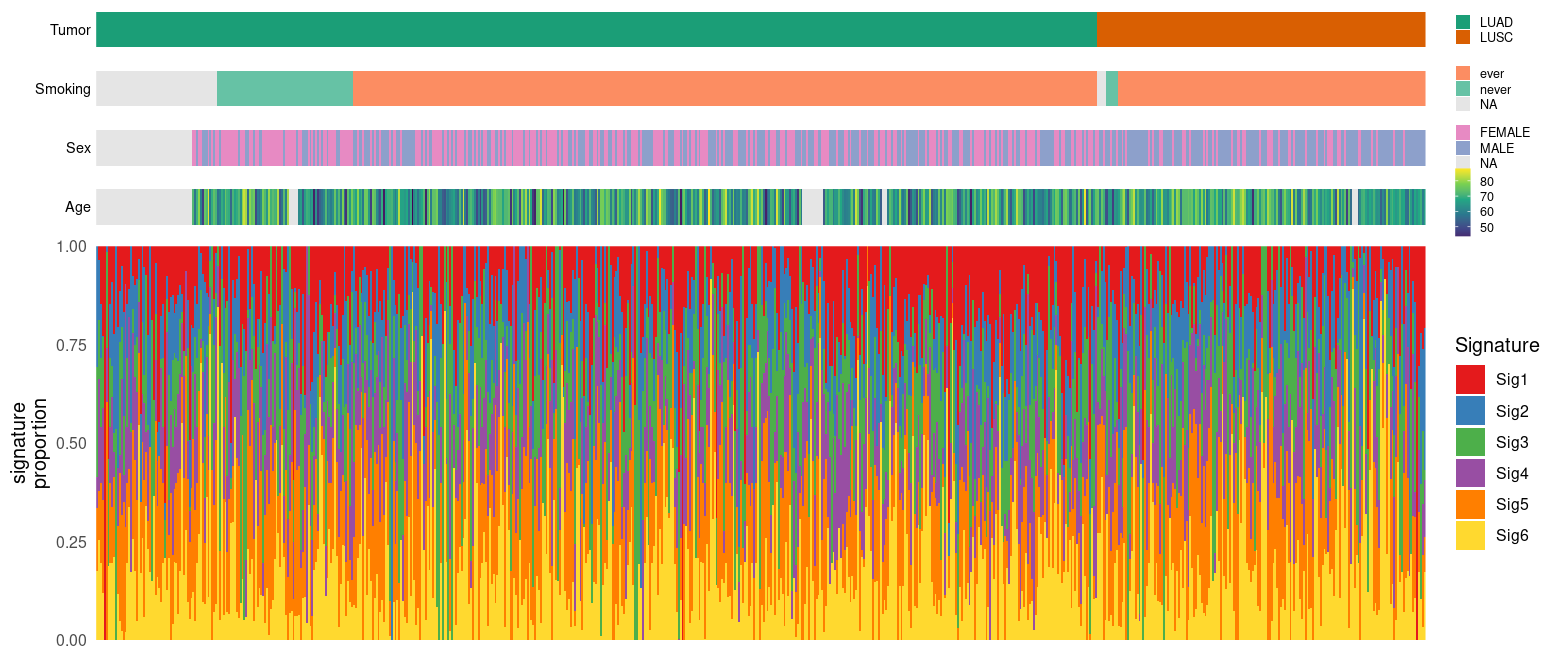
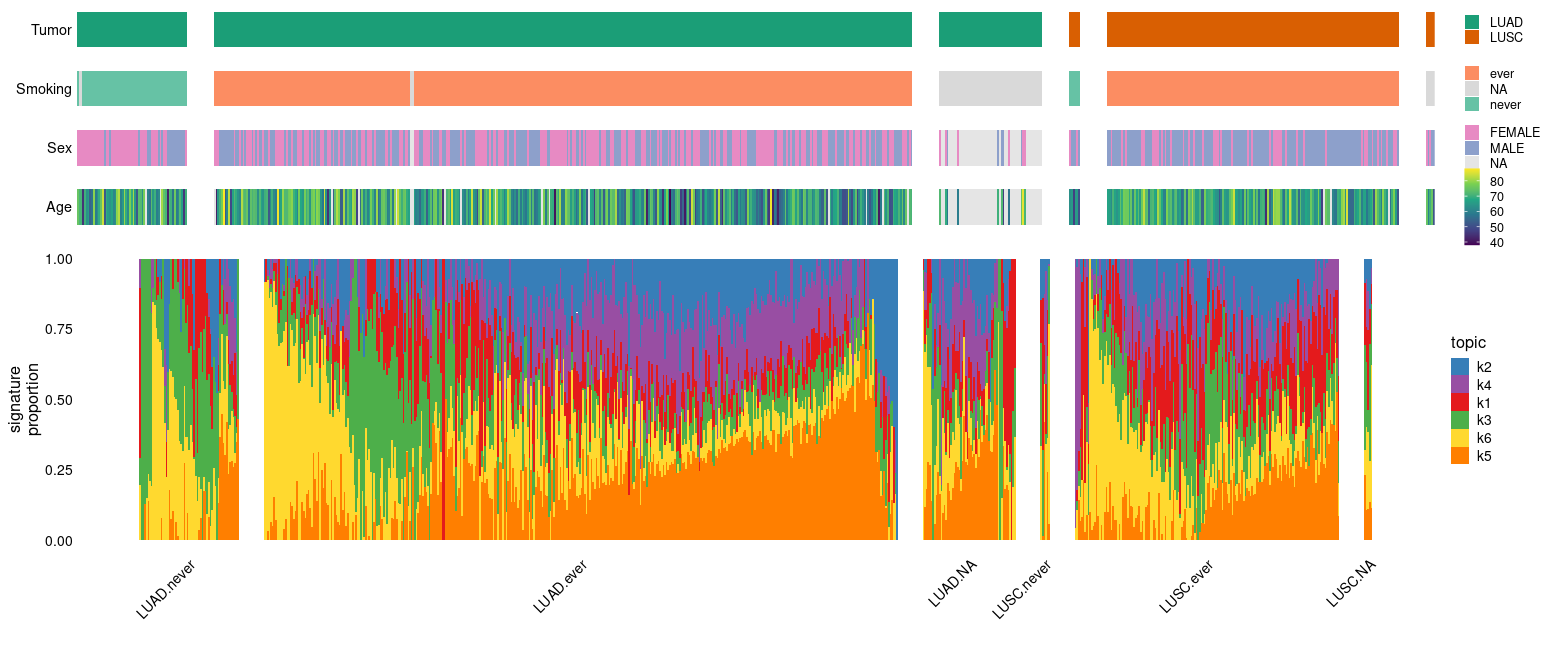
lung_subtype: structure plot grouped by tumor+smoking, fastTopics within-group order
Use fastTopics::structure_plot grouped by tumor type then smoking status, keeping
the fastTopics loadings-similarity ordering within each group; annotation tracks
(tumor, smoking, sex, age) aligned to the same x positions including group gaps.

diff --git a/docs/lung_subtype.html b/docs/lung_subtype.html
@@ -1025,8 +1025,7 @@ alt="96-context spectra of the 6 mutational signatures, faceted by substitution 
 </div>
 <div id="ms-structure" class="section level2">
 <h2>Signature structure by tumor type, smoking, sex, and age</h2>
-<p>Per-sample signature proportions (structure plot), with samples ordered by
-tumor type, then smoking status. The tracks above show these
+<p>Per-sample signature proportions (fastTopics structure plot), grouped by tumor type then smoking status; within each group samples keep the fastTopics loadings-similarity ordering. The tracks above show the sample-level labels in the same order.  The tracks above show these
 sample-level labels in the same order. Signature 4 (purple) is the tobacco
 C&gt;A signature, enriched in ever-smokers; Signature 3 (green) is enriched in
 never-smokers.</p>
